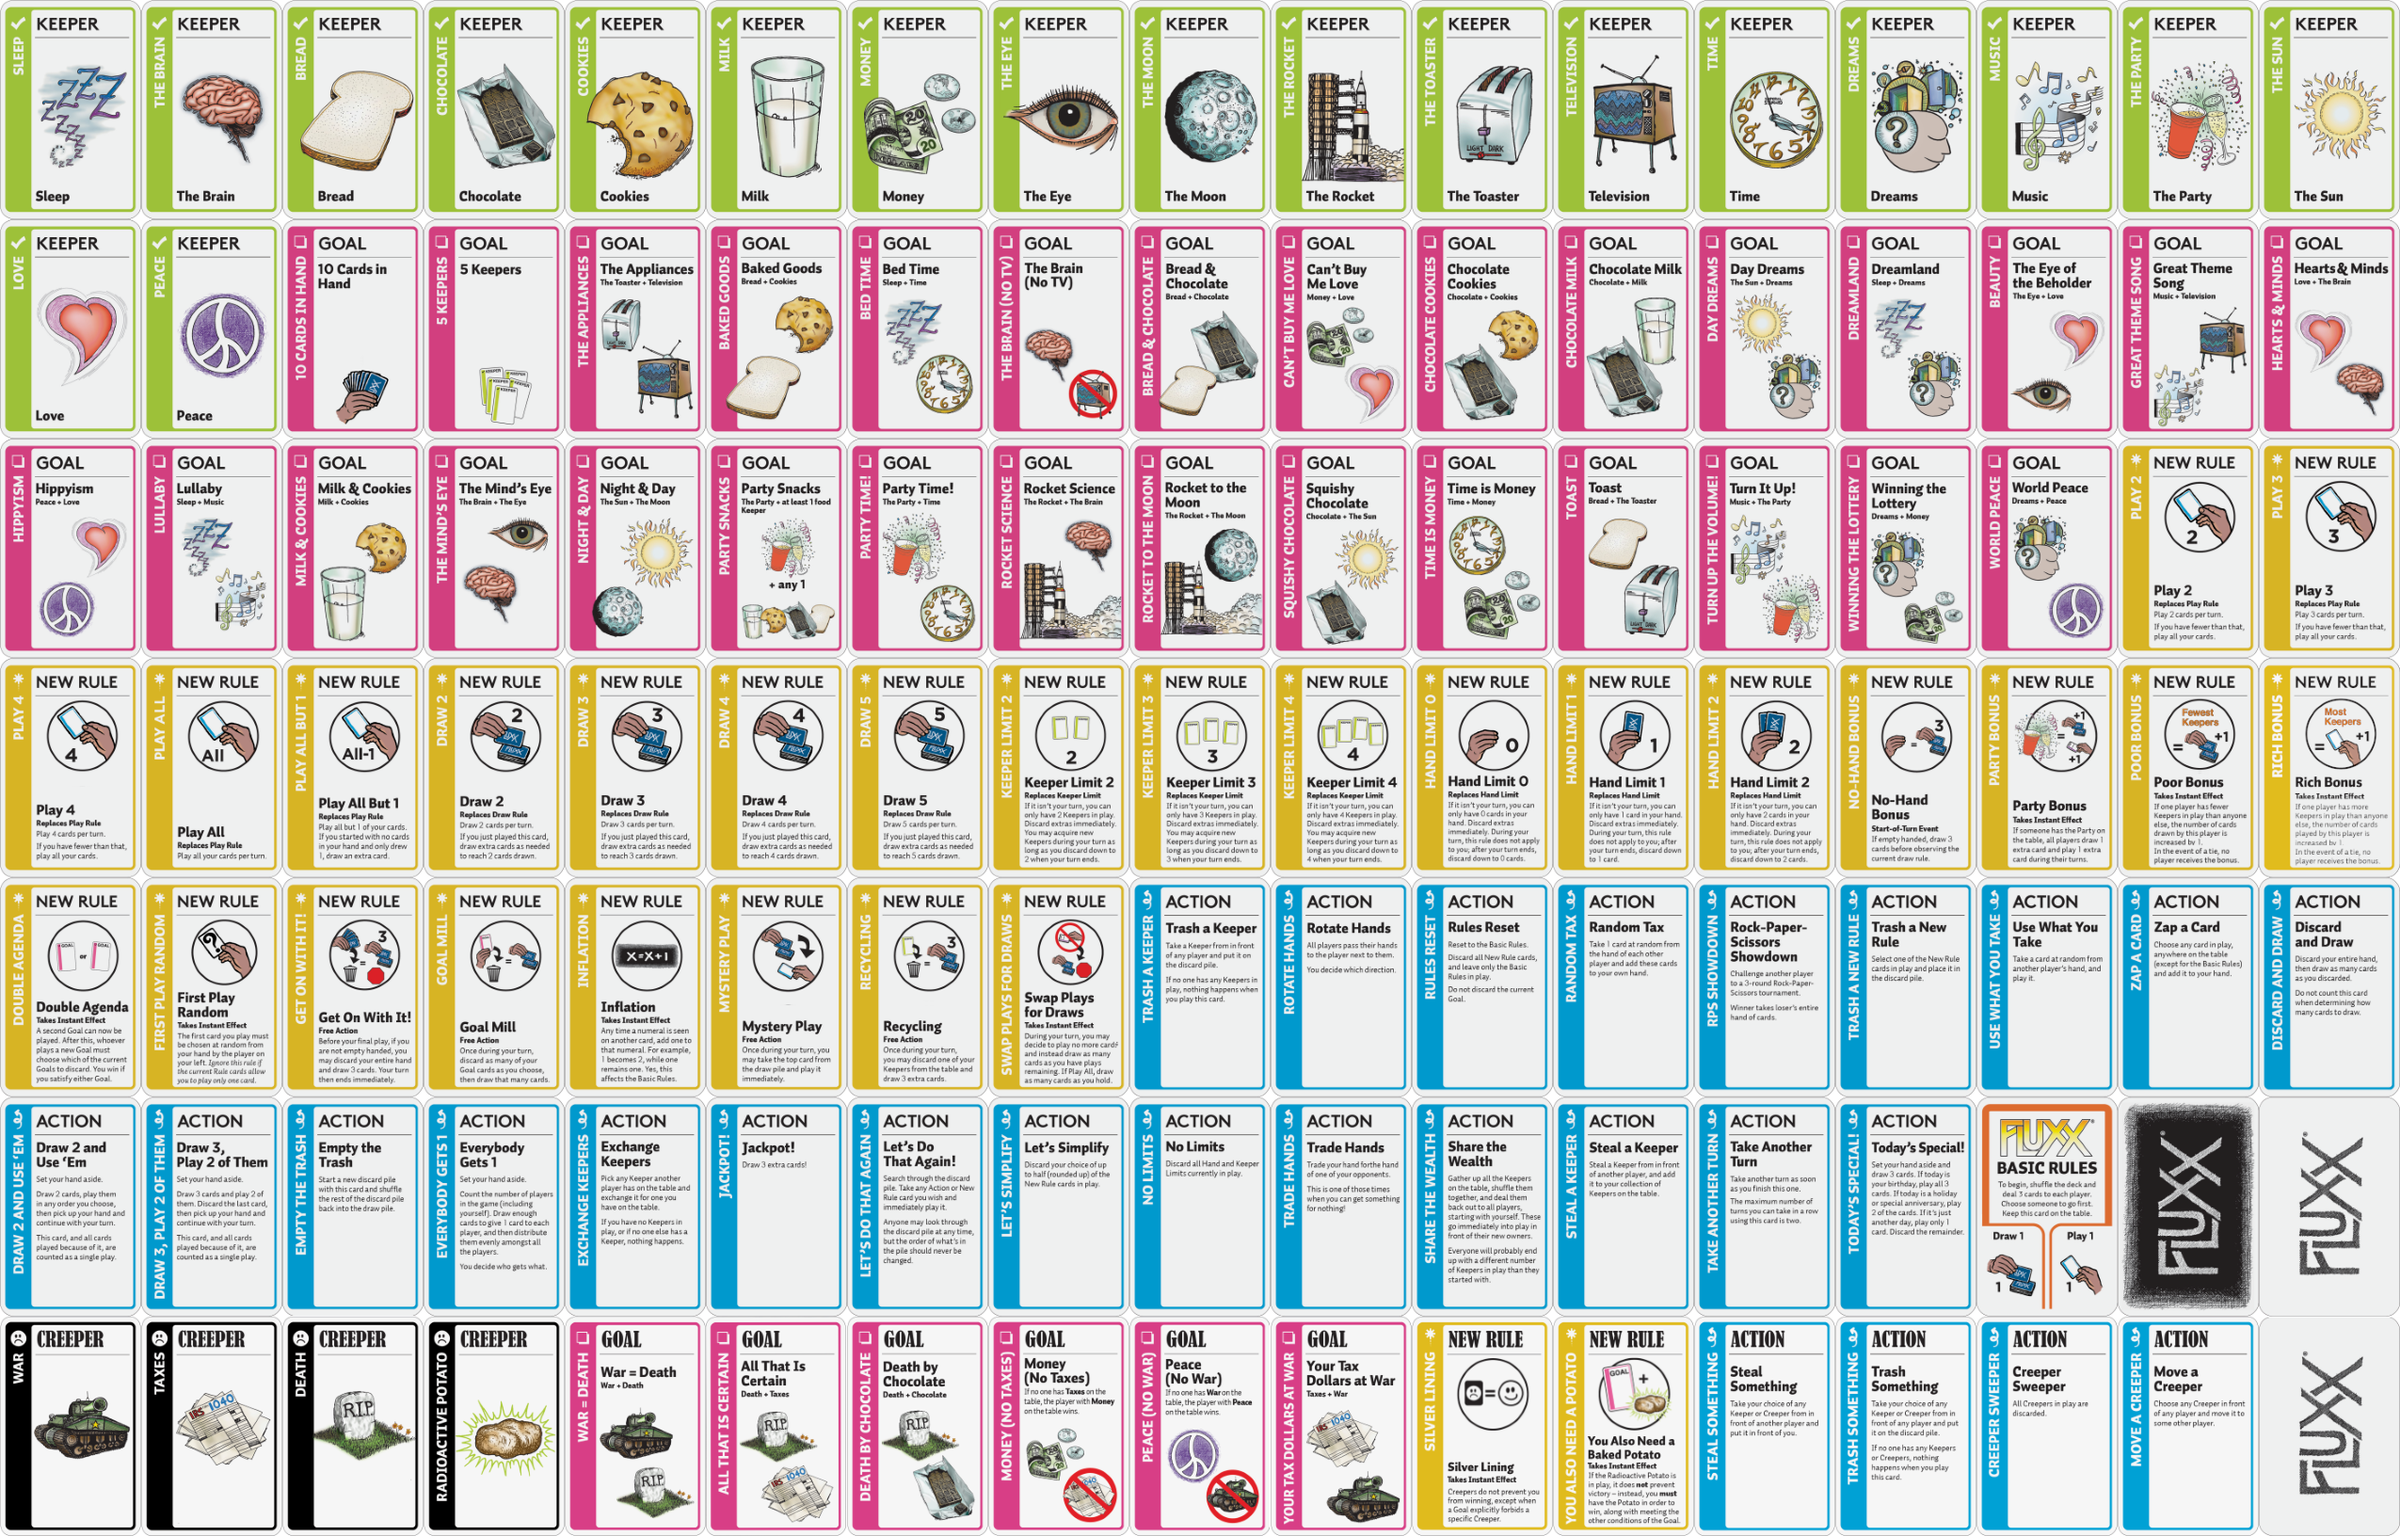
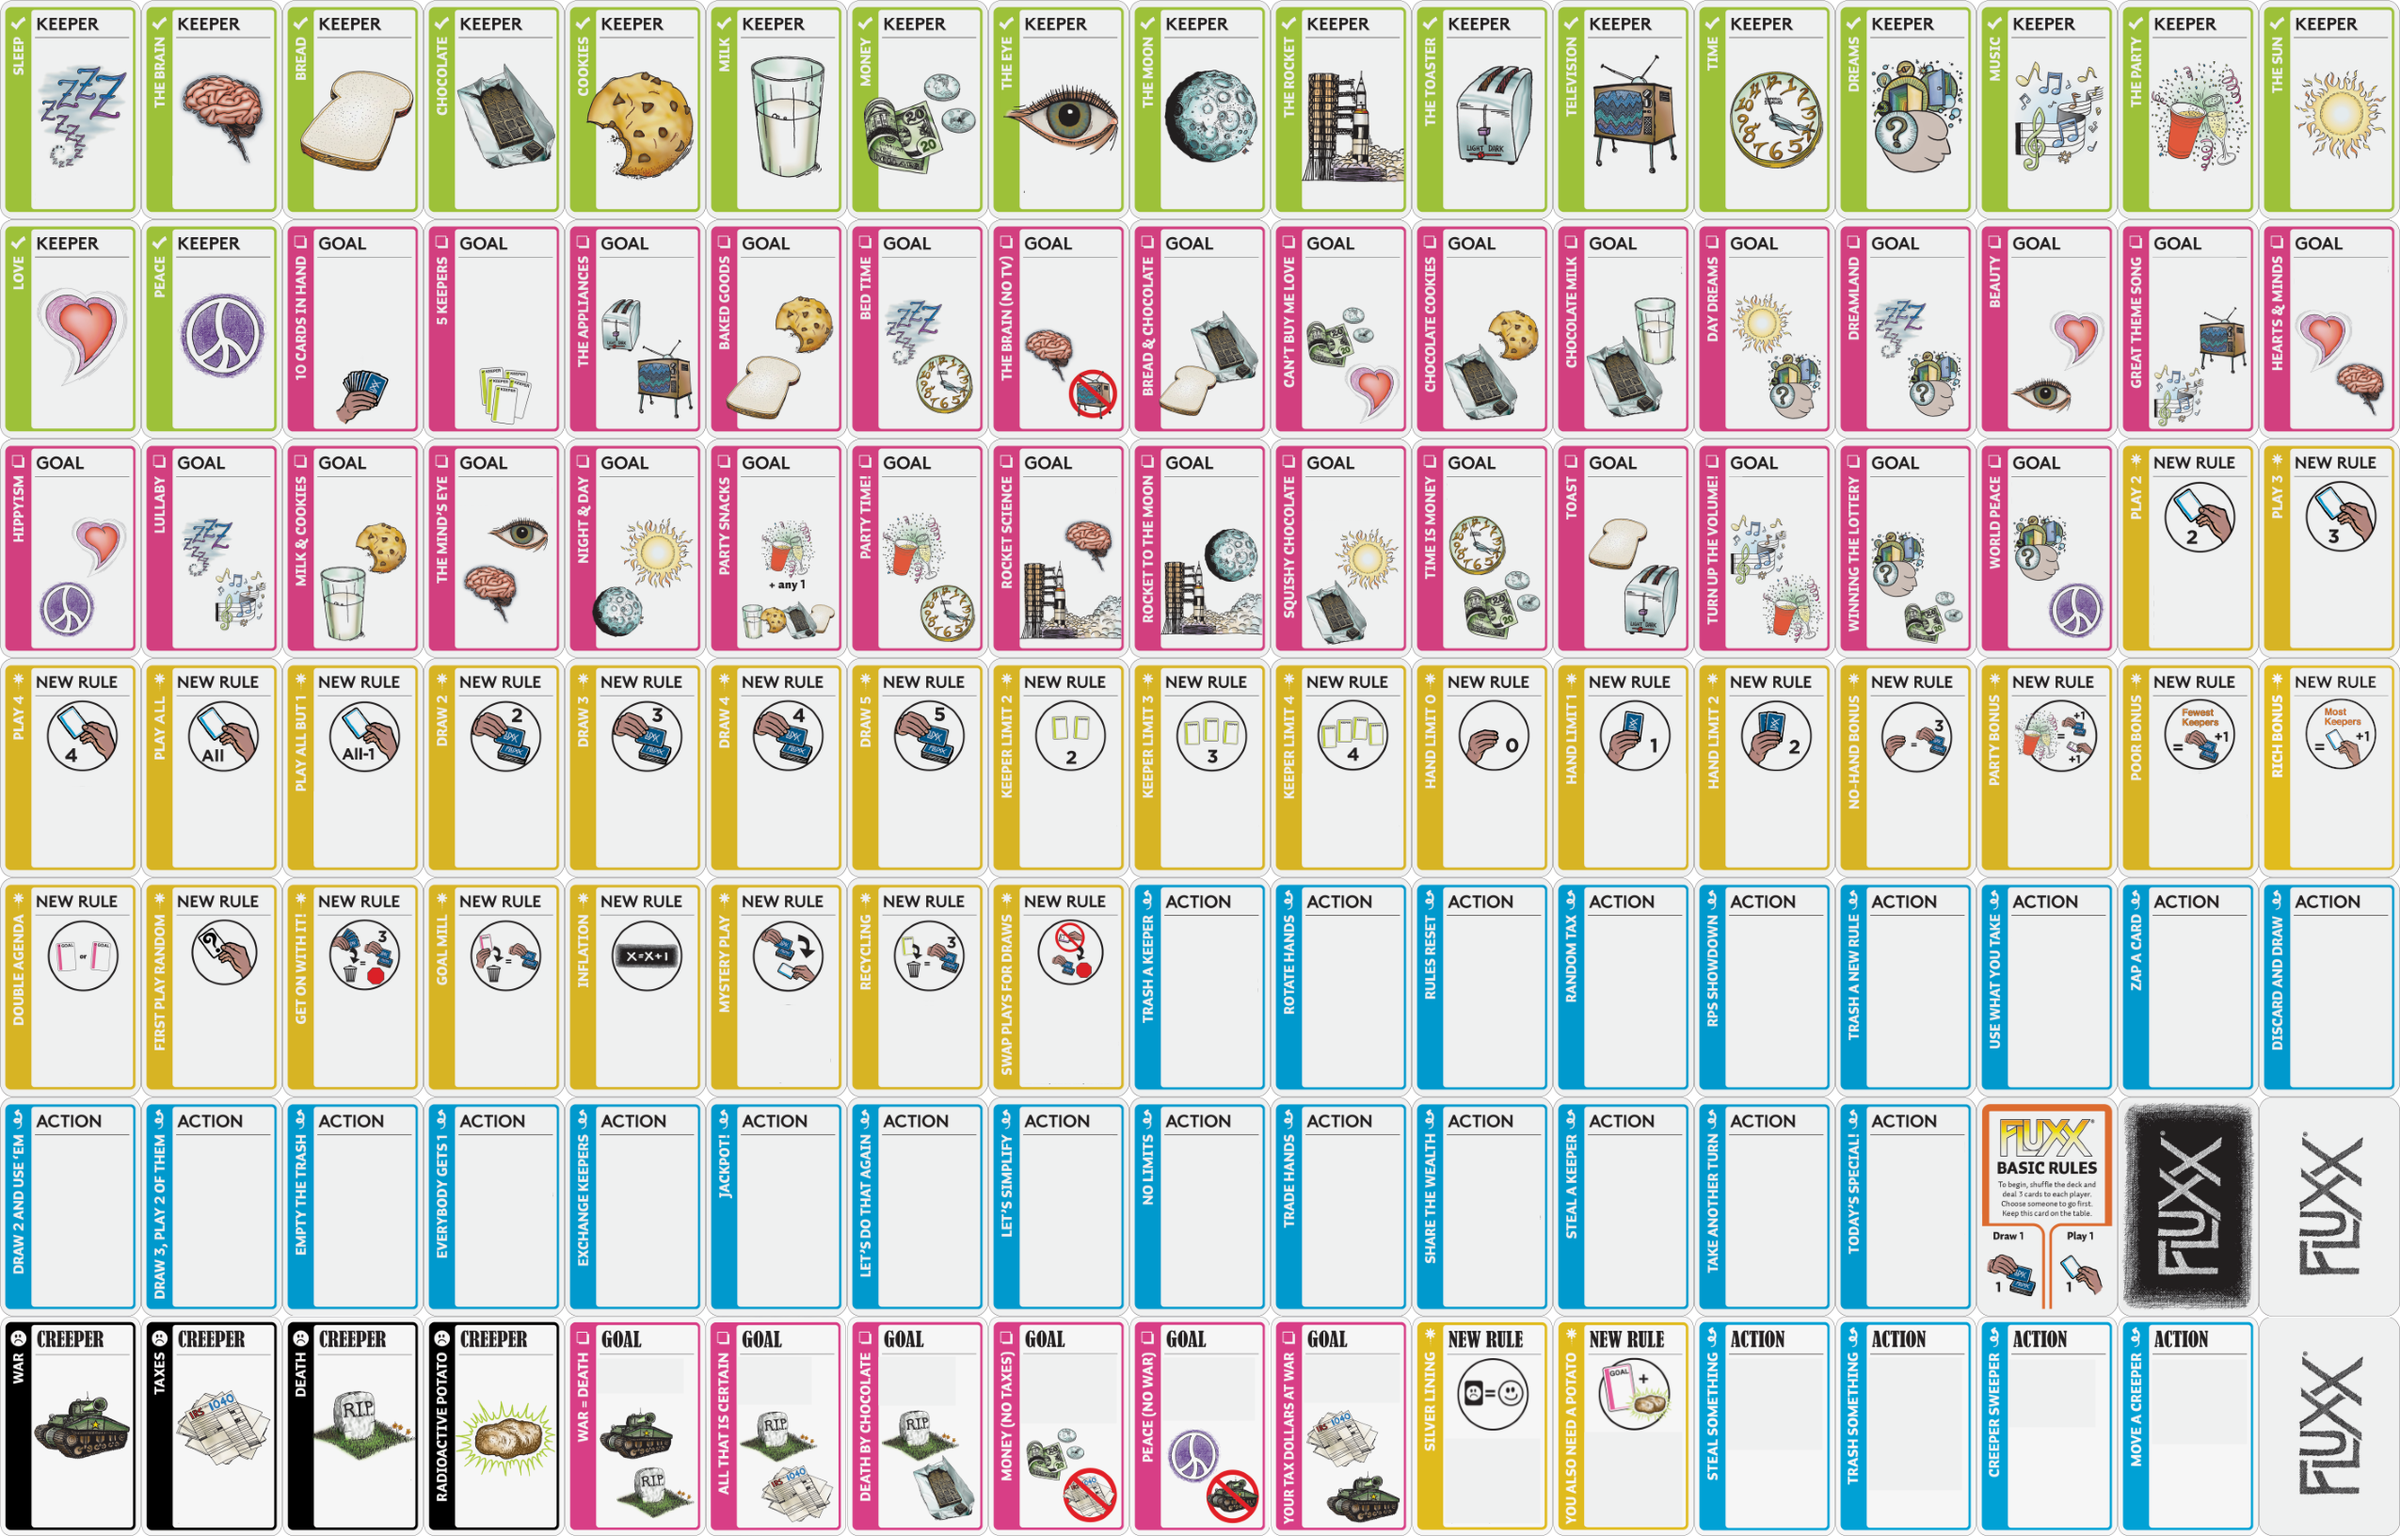
clear all text on card images, finalize font changes

diff --git a/modules/css/_cards.scss b/modules/css/_cards.scss
@@ -117,7 +117,7 @@ $color-rule: #D7B424;
   margin-left: $card-margin-left;
   margin-right: $card-margin-right;
   width: $card-width-inner;
-  background-color: $color-cardwhite;
+  background-color: transparent;
   font-size: 16px;
 
   .card-name {
@@ -175,12 +175,12 @@ $color-rule: #D7B424;
   .card-name {
     margin-top: $card-height-inner * 0.45;
   }
+  .card-description {
+    margin-top: -5px;
+  }
 }
 
 .flx-card-creeper {
-  .card-overlay {
-    background-color: transparent;
-  }
   .card-name {
     margin-top: 5px;
   }
@@ -247,10 +247,10 @@ $color-rule: #D7B424;
   }
   .flx-card-creeper {
     .card-subtitle {
-      margin-top: -6px;
+      margin-top: -15px;
     }
     .card-description {
-      margin-top: 2px;
+      margin-top: 5px;
     }
   }
 }

diff --git a/fluxx.css b/fluxx.css
@@ -179,7 +179,7 @@
   margin-left: 36px;
   margin-right: 8px;
   width: 106px;
-  background-color: #EFF0F0;
+  background-color: transparent;
   font-size: 16px;
 }
 
@@ -236,8 +236,8 @@
   margin-top: 80.55px;
 }
 
-.flx-card-creeper .card-overlay {
-  background-color: transparent;
+.flx-card-rule .card-description {
+  margin-top: -5px;
 }
 
 .flx-card-creeper .card-name {
@@ -305,11 +305,11 @@
 }
 
 .flx-keepers .flx-card-creeper .card-subtitle {
-  margin-top: -6px;
+  margin-top: -15px;
 }
 
 .flx-keepers .flx-card-creeper .card-description {
-  margin-top: 2px;
+  margin-top: 5px;
 }
 
 #flx-win-dialog-goal {

diff --git a/modules/css/fluxx.css b/modules/css/fluxx.css
@@ -179,7 +179,7 @@
   margin-left: 36px;
   margin-right: 8px;
   width: 106px;
-  background-color: #EFF0F0;
+  background-color: transparent;
   font-size: 16px;
 }
 
@@ -236,8 +236,8 @@
   margin-top: 80.55px;
 }
 
-.flx-card-creeper .card-overlay {
-  background-color: transparent;
+.flx-card-rule .card-description {
+  margin-top: -5px;
 }
 
 .flx-card-creeper .card-name {
@@ -305,11 +305,11 @@
 }
 
 .flx-keepers .flx-card-creeper .card-subtitle {
-  margin-top: -6px;
+  margin-top: -15px;
 }
 
 .flx-keepers .flx-card-creeper .card-description {
-  margin-top: 2px;
+  margin-top: 5px;
 }
 
 #flx-win-dialog-goal {
